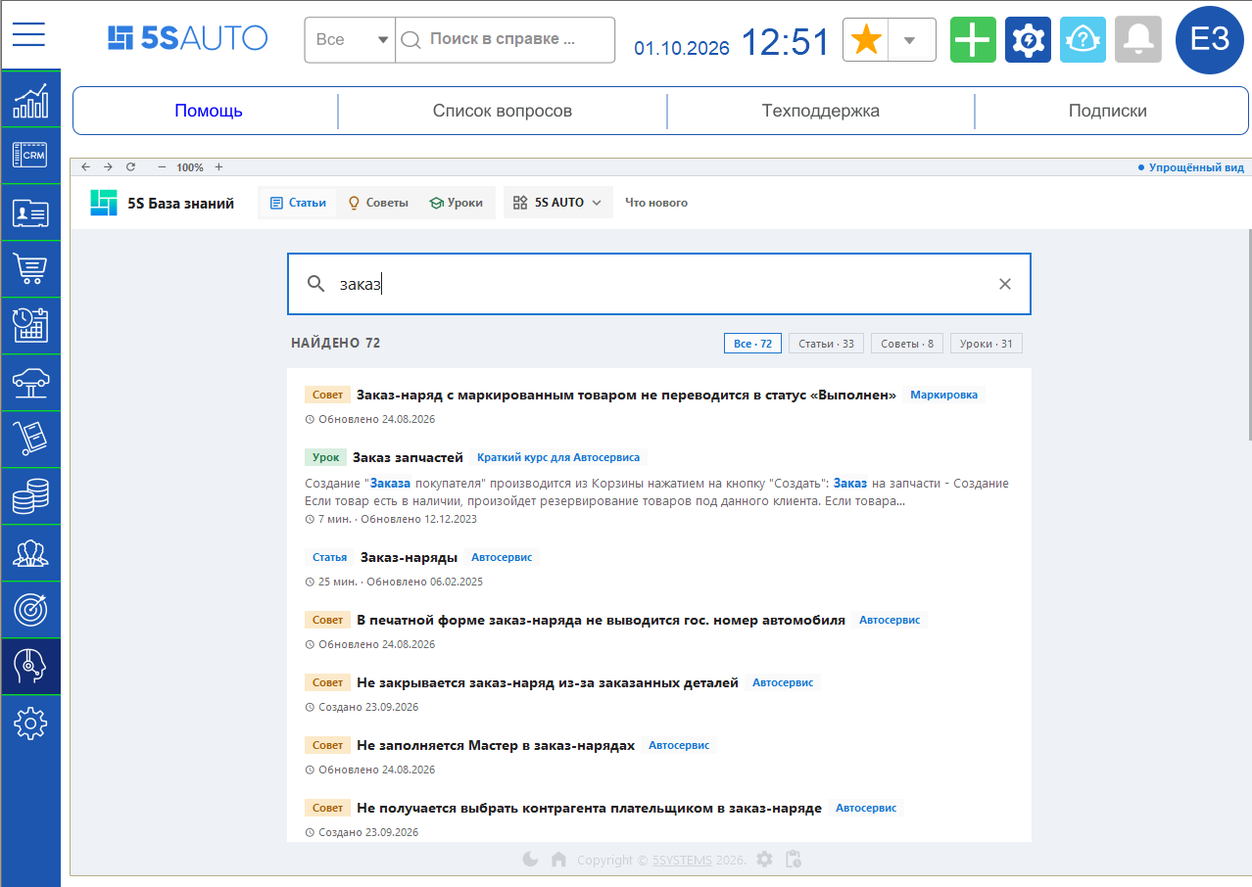
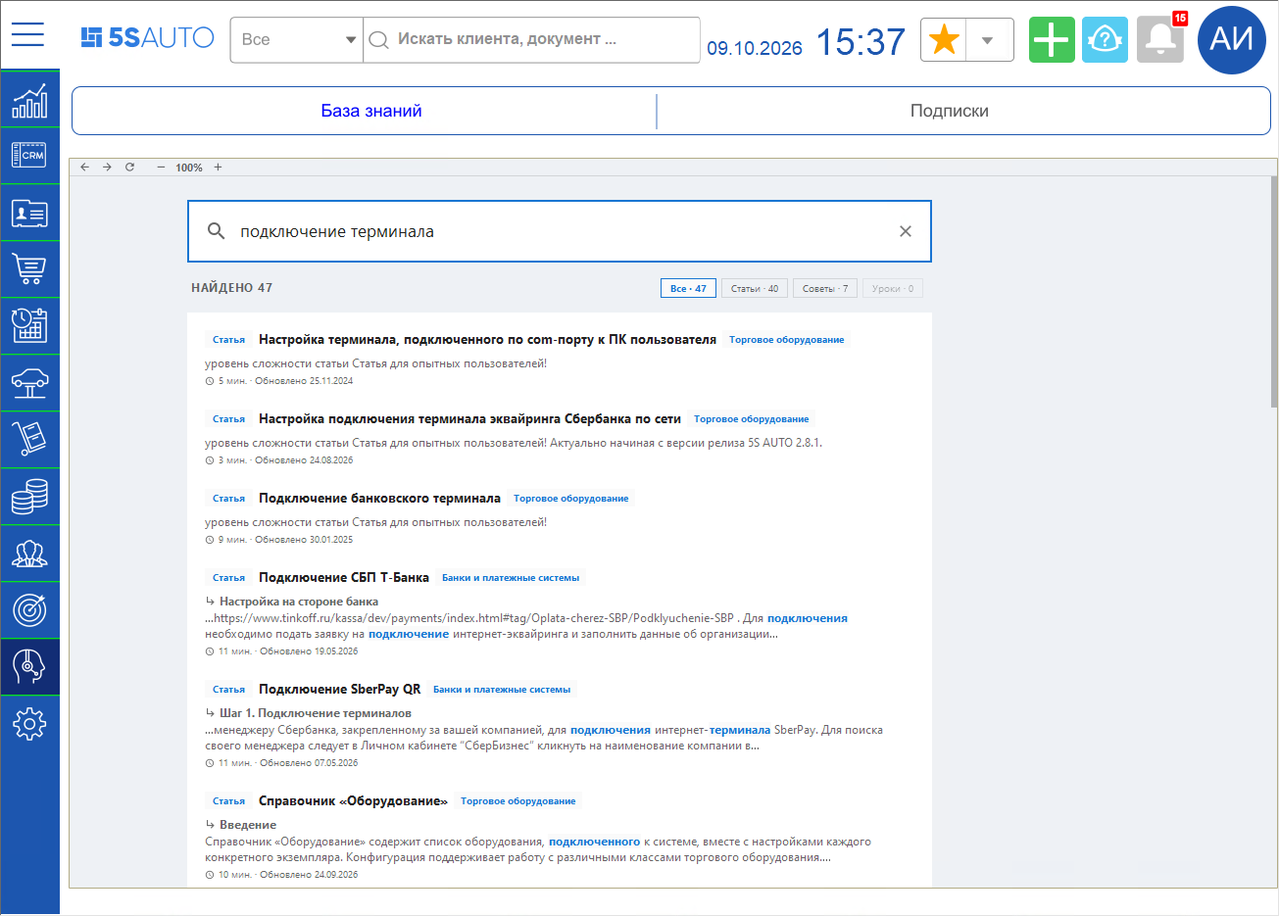
Переход к Базе знаний из программы, Подписки компании в программе (Katya): по проверке Кати в программе — новые скриншоты (поиск из заказ-наряда обезличен), панель «Назад/Вперед/Обновить» без «Упрощенного вида», подсказка «Техподдержка», панель открывается на «Новостях», вкладка «Тикеты», закреплени

diff --git a/articles/5S AUTO/Прочее/Переход к Базе знаний из программы/perekhod-k-baze-znaniy-iz-programmy.md b/articles/5S AUTO/Прочее/Переход к Базе знаний из программы/perekhod-k-baze-znaniy-iz-programmy.md
@@ -4,7 +4,7 @@
 
 > *Актуально начиная с версии релиза 5S AUTO **2.8.5**.*
 
-> 🛠 Комментарий для черновика: *Реализовано в конфигурации версии 2.8.4.57. Черновик переработан 09.10.2026 по описанию функционала (составлено по коду конфигурации от 07.10.2026 и обработки «Рабочий стол» от 08.10.2026, в программе не проверялось). Все скриншоты – из прежней версии (вкладка «Помощь», кнопка с шестеренкой в шапке, «Поиск в справке …») – переснять.*
+> 🛠 Комментарий для черновика: *Реализовано в конфигурации версии 2.8.4.57. Черновик переработан 09.10.2026 по описанию функционала (составлено по коду конфигурации от 07.10.2026 и обработки «Рабочий стол» от 08.10.2026) и сверен Катей в программе 09.10.2026; скриншоты новые.*
 
 ## Содержание
 
@@ -30,15 +30,13 @@
 
 В боковом меню выберите раздел ***«Техподдержка»*** и подвкладку ***«База знаний»*** – откроется главная страница Базы знаний. На соседней подвкладке ***«Подписки»*** – подписки компании (см. статью «[Подписки компании в программе](../Подписки%20компании%20в%20программе/podpiski-kompanii-v-programme.md)»).
 
-![База знаний в разделе «Техподдержка»](attachments/01-vkladka-pomoshch.png)
+![База знаний в разделе «Техподдержка»](attachments/01-baza-znaniy.png)
 
 Подробнее о разделах бокового меню и верхней панели – в статье «[Структура интерфейса 5S AUTO](https://kb.5systems.ru/articles/5s-auto/crm/struktura-interfeysa-5s-auto)».
 
 Выберите свой продукт, например *5S AUTO*, – после этого в разделах будут видны только материалы по выбранному продукту.
 
-Над Базой знаний расположена панель с кнопками ***«Назад»***, ***«Вперед»*** и ***«Обновить»***, масштабом страницы (кнопки ***«−»*** и ***«+»***) и переключателем ***«Упрощенный вид»***.
-
-> 🛠 Комментарий для черновика: *Осталась ли панель «Назад / Вперед / Обновить», масштаб и «Упрощенный вид»? В описании сказано только, что сайт открывается в режиме для 1С – без шапки, боковой панели и подвала. (вопрос еще не задан)*
+Над Базой знаний расположена панель с кнопками ***«Назад»***, ***«Вперед»*** и ***«Обновить»*** и масштабом страницы (кнопки ***«−»*** и ***«+»***).
 
 Чтобы найти нужный материал, начните вводить запрос в строку ***«Поиск по всей базе знаний»*** на странице: результаты появляются сразу во время ввода. Их можно отфильтровать по статьям, советам и урокам.
 
@@ -47,7 +45,7 @@
 > [!NOTE]
 > Строка поиска в шапке рабочего стола по Базе знаний не ищет – она ищет клиентов и документы, как и в остальных разделах.
 
-Статья открывается здесь же, на подвкладке ***«База знаний»***: слева – список статей раздела, справа – содержание статьи.
+Статья открывается здесь же, на подвкладке ***«База знаний»***: справа – содержание статьи.
 
 ![Статья Базы знаний в программе](attachments/03-statya.png)
 
@@ -57,42 +55,42 @@
 
 ## Панель «Техподдержка»
 
-Панель ***«Техподдержка»*** открывается голубой кнопкой со знаком вопроса в шапке рабочего стола – между зеленой кнопкой ***«+»*** и кнопкой уведомлений. Панель появляется у правого края окна, в ней три вкладки:
+Панель ***«Техподдержка»*** открывается голубой кнопкой со знаком вопроса в шапке рабочего стола (подсказка ***«Техподдержка»***) – между зеленой кнопкой ***«+»*** и кнопкой уведомлений. Панель появляется у правого края окна, в ней три вкладки:
 
-- ***«Новости»*** – страница *«Что нового»* Базы знаний: новые и обновленные материалы;
-- ***«База Знаний»*** – главная страница Базы знаний;
-- ***«Тикеты»*** – обращения в техподдержку.
+- ***«Новости»*** – страница *«Что нового»* Базы знаний: новые и обновленные материалы. На этой вкладке панель открывается;
+- ***«Тикеты»*** – вход на портал техподдержки по адресу электронной почты и ключу API (см. статью «[Как обратиться в техническую поддержку](https://kb.5systems.ru/articles/5s-auto/prochee/kak-obratitsya-v-tekhnicheskuyu-podderzhku)»);
+- ***«База Знаний»*** – главная страница Базы знаний.
 
-Панель узкая, поэтому сайт в ней показывается в компактном виде.
+![Панель «Техподдержка»](attachments/04-panel-tekhpodderzhka.png)
 
-> 🛠 Комментарий для черновика: *Нужен скриншот панели «Техподдержка» (вкладки «Новости» и «База Знаний»). Подсказку голубой кнопки установить по коду не удалось. На какой вкладке панель открывается по умолчанию – в описании сказано, что на «Новостях», проверить.*
+Панель узкая, поэтому сайт в ней показывается в компактном виде. Если панель не закреплена, она сворачивается в кнопку ***«Техподдержка»*** у правого края окна. Чтобы панель оставалась открытой, закрепите ее кнопкой в заголовке панели.
 
 ## Поиск по Базе знаний из документа
 
-В формах документов – например, в заказ-наряде – на верхней командной панели есть кнопка с лупой ***«Поиск в базе знаний»***, последняя в ряду кнопок.
+В формах документов – например, в заказ-наряде, перемещении товаров, заявке на ремонт – на верхней командной панели есть кнопка с лупой ***«Поиск в базе знаний»***, последняя в ряду кнопок. В списках документов этой кнопки нет.
 
-**1.** Нажмите кнопку с лупой – откроется окно ***«Поиск»***. В строку поиска автоматически подставляется название вида документа, например *«Заказ-наряд»*.<br>
+**1.** Нажмите кнопку с лупой – у правого края окна откроется панель ***«Поиск»***. В строку поиска автоматически подставляется название вида документа, например *«Заказ-наряд»*.<br>
 **2.** Откройте нужную статью из результатов поиска или измените запрос в строке поиска на странице.<br>
-**3.** Закройте окно кнопкой ***«Закрыть»***.
+**3.** Закройте панель кнопкой ***«Закрыть»***.
+
+![Поиск по Базе знаний из заказ-наряда](attachments/05-poisk-iz-zakaz-naryada.png)
 
 Поиск идет по всей Базе знаний, а не только по материалам 5S AUTO. Номер документа, клиент и другие данные документа в запрос не передаются.
 
-Окно ***«Поиск»*** в программе одно: если оно уже открыто, при нажатии кнопки в другом документе в нем выполняется новый поиск, а открытая статья закрывается.
+Панель ***«Поиск»*** в программе одна: если она уже открыта, при нажатии кнопки в другом документе в ней выполняется новый поиск по этому документу. Если панель не закреплена, она сворачивается в кнопку ***«Поиск»*** у правого края окна – чтобы панель оставалась открытой, закрепите ее кнопкой в заголовке панели.
 
 > [!NOTE]
 > Стандартная кнопка справки со знаком вопроса и клавиша ***F1*** в формах документов по-прежнему открывают встроенную справку программы, а не Базу знаний.
 
 > 🛠 Комментарий для черновика: *Вопросы (вопрос еще не задан):*
-> - *На каких формах документов есть кнопка с лупой? В выгрузке от 07.10.2026 единственный вызов процедуры добавления кнопки закомментирован; на снимке экрана разработчика кнопка есть на форме заказ-наряда. По коду кнопка добавляется только в обычном приложении и только на формы с верхней командной панелью (153 из 156 основных форм документов).*
-> - *Как открывается окно «Поиск»: свободным окном или прикрепленным к краю экрана, какого размера?*
 > - *Куда открываются внешние ссылки со страниц Базы знаний (на другие сайты) – внутри программы или в браузере?*
->
-> *Нужны скриншоты: кнопка с лупой в заказ-наряде, окно «Поиск» с результатами.*
+> - *У пользователя без сохраненной настройки рабочего стола в разделе «Техподдержка» тоже будут две новые подвкладки? Макет кнопок по умолчанию в обработке еще содержит «Помощь», «Список вопросов» и «Техподдержка».*
 
 > 🛠 Комментарий для черновика: *Техническая информация из описания (для справки, на сайт не выводится):*
-> - *Подвкладка «Помощь» раздела «Техподдержка» переименована в «База знаний», подвкладки «Список вопросов» и «Техподдержка» удалены; сохраненные настройки рабочего стола обработчик обновления (_5с_ОбновитьБСАвтоДо_2_8_4_57) исправляет сам. Нужно подтвердить, что у пользователя без сохраненной настройки тоже будут новые подвкладки (макет кнопок по умолчанию еще содержит старые).*
+> - *Подвкладка «Помощь» раздела «Техподдержка» переименована в «База знаний», подвкладки «Список вопросов» и «Техподдержка» удалены; сохраненные настройки рабочего стола обработчик обновления (_5с_ОбновитьБСАвтоДо_2_8_4_57) исправляет сам.*
 > - *Программа открывает страницы kb.5systems.ru /articles, /whats-new и /articles с запросом в режиме для 1С (без шапки, боковой панели, подвала и входа в учетную запись). Старые источники справки (wiki.5-systems.ru, раздел помощи на 5systems.ru, поиск по форуму) больше не вызываются.*
-> - *Из шапки рабочего стола убрана синяя кнопка с шестеренкой рядом с зеленым «плюсом» (ничего не делала); режим «Поиск в справке …» строки поиска убран.*
+> - *Из шапки рабочего стола убрана синяя кнопка с шестеренкой рядом с зеленым «плюсом» (ничего не делала); режим «Поиск в справке …» строки поиска убран – в программе подтверждено.*
+> - *Кнопка с лупой проверена на формах заказ-наряда, перемещения товаров, заявки на ремонт и др. – есть во всех; результаты поиска по названию документа не всегда полезны (Катя, 09.10.2026).*
 > - *Отдельных прав и настроек нет.*
 
 ---

diff --git a/articles/5S AUTO/Прочее/Подписки компании в программе/podpiski-kompanii-v-programme.md b/articles/5S AUTO/Прочее/Подписки компании в программе/podpiski-kompanii-v-programme.md
@@ -4,7 +4,7 @@
 
 > *Актуально начиная с версии релиза 5S AUTO **2.8.5**.*
 
-> 🛠 Комментарий для черновика: *Реализовано в конфигурации версии 2.8.4.57. Черновик по описанию функционала (составлено по коду, в программе не проверялось). Нужны скриншоты: подвкладка «Подписки» с карточками подписок; карточка с сообщением (например, «Интеграция с API 5S AUTO не настроена»).*
+> 🛠 Комментарий для черновика: *Реализовано в конфигурации версии 2.8.4.57. Черновик по описанию функционала (составлено по коду, в программе не проверялось). Проверено Катей 09.10.2026: в тестовой базе подписки не получены (сообщение «Не удалось получить список подписок»). Нужен скриншот подвкладки «Подписки» с карточками подписок.*
 
 ## Содержание
 
@@ -28,7 +28,7 @@
 
 Карточки раскладываются в ряд по ширине окна в момент открытия подвкладки. Если после этого изменить размер окна, откройте подвкладку заново – карточки перестроятся.
 
-> 🛠 Комментарий для черновика: *Прокрутки у подвкладки нет: при большом числе подписок нижние карточки могут не поместиться.*
+> 🛠 Комментарий для черновика: *Проверено: при изменении размера окна карточки не перестраиваются; в узком окне появляется горизонтальная прокрутка. Вертикальной прокрутки по коду нет: при большом числе подписок нижние карточки могут не поместиться.*
 
 ## Карточка подписки
 
@@ -56,6 +56,8 @@
 | Не удалось получить список подписок | Сервис не ответил или вернул ошибку – например, нет доступа в интернет |
 
 </div>
+
+![Сообщение вместо карточек подписок](attachments/01-podpiski-soobshchenie.png)
 
 Если сообщение «Не удалось получить список подписок» появляется постоянно, обратитесь в техническую поддержку (см. статью «[Как обратиться в техническую поддержку](https://kb.5systems.ru/articles/5s-auto/prochee/kak-obratitsya-v-tekhnicheskuyu-podderzhku)»).
 
